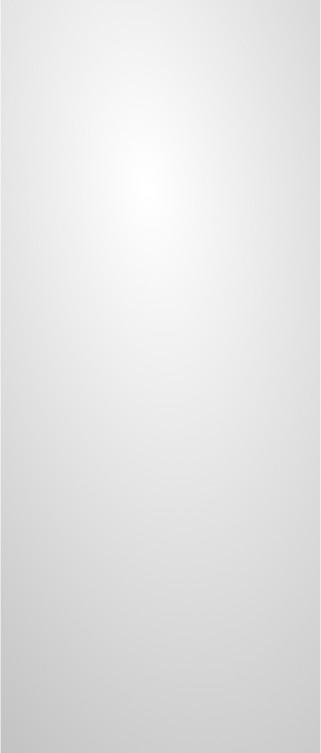
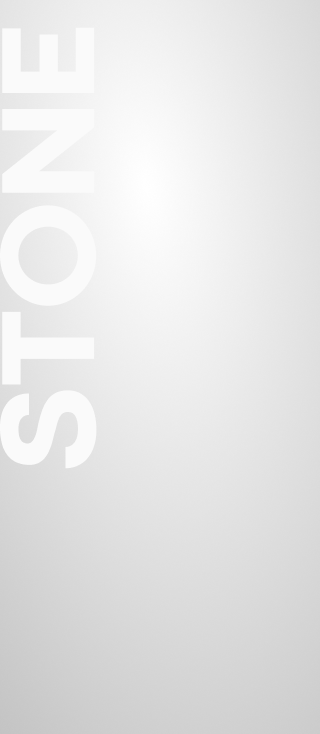
Добавляет верстку футера

Changed region(s): [[0.0, 0.4196, 0.1875, 0.6594], [0.1875, 0.5995, 0.2812, 0.6594]]

diff --git a/pages/news/index.js b/pages/news/index.js
@@ -67,12 +67,12 @@ export default function News() {
 
     const mocks = {
         header: {
-            name: 'Максим Гейзер в рейтинге CRE 100',
+            name: `Максим Гейзер в${'\u00A0'}рейтинге CRE 100`,
             description: '100 самых влиятельных персон рынка коммерческой недвижимости 2022/23',
             data: '20/04/2022'
         },
         video: {
-            url: 'https://www.youtube.com/embed/Onn38VeEAC8',
+            //url: 'https://www.youtube.com/embed/Onn38VeEAC8',
             description: 'Видео с вручения премии, которая, несомненно, внесла большой вклад.'
         },
         hashtagList: [
@@ -132,11 +132,22 @@ export default function News() {
             address: 'г. Москва, Бумажный проезд, вл. 19',
             sales: 'Отдел продаж по телефону:пн. - пт.: с 9:00 до 21:00сб. - вс.: c 9:30 до 20:00',
             telegram: '@stone_by_stonehedge'
-        }    
+        },
+        copyright: {
+            header: `Инвестируйте Выгодно В${'\u00A0'}ликвидную недвижимость`,
+            name: 'Политика конфиденциальности',
+            author: '© АО «СТОУНХЕДЖ»',
+            description: 'Содержимое данного сайта (включая размещенную информацию и материалы) охраняется авторским правом (ст. 1271 ГК РФ). Запрещено копирование дизайна настоящего сайта, его структуры и отдельных элементов без предварительного письменного согласия АО «СТОУНХЕД»'
+        },
+        form: {
+            header: 'Новости рынка и проектов',
+            ready: 'Готово!',
+            description: 'Одним из первых узнавайте о новостях рынка коммерческой недвижимости'       
+        }
     }
 
-    const {header, video, slider, author, image, contacts} = mocks;
-
+    const {header, video, slider, author, image, contacts, copyright, form} = mocks;
+    
     return (
             <Context.Provider value={[width, height]}>
                 <Head>
@@ -172,9 +183,9 @@ export default function News() {
                                 <S_Text text={mocks.textList[2].text}
                                 />
                                 <S_MoreInfoBtn />
-                                <S_Form />
+                                <S_Form header={form.header} description={form.description} ready={form.ready}/>
                                 <S_Footer phone_number={contacts.phone} mail={contacts.mail} address={contacts.address} 
-                                    sales_number={contacts.sales} telegram={contacts.telegram}/>
+                                    sales_number={contacts.sales} telegram={contacts.telegram} copyright={copyright}/>
                             </>
                         ) : (
                             <div className="lds-grid-wrapper">

diff --git a/src/components/c_Form/index.js b/src/components/c_Form/index.js
@@ -1,25 +1,40 @@
 import classNames from 'classnames';
 import classes from './style.module.scss';
 
-export const C_Form = ({}) => {
+export const C_Form = ({header, description, ready}) => {
   
   const cls = classNames(classes.root, {[classNames]: classNames});
-  
+
+  const formColor = {
+    valid: '#A2D3AA',
+    invalid: '#E0A8A8',
+    need: '#E5BF5B',
+    default: '#cccccc'
+  }
+
+  const validName = /^(([a-zA-Zа-яА-ЯЁё-]{1,30}))$/u;
+
+  const onInputCheck = (evt) => {
+    if (evt) {
+      (evt.target.value.length > 0) && (validName.test(evt.target.value)) ? evt.target.style.borderColor = formColor.valid 
+      : (evt.target.value.length > 0) && (!validName.test(evt.target.value)) ? evt.target.style.borderColor = formColor.invalid 
+      : evt.target.style.borderColor = formColor.default
+    }
+  }
+
   return (
-      <div className={classes.root}>
+      <div className={cls}>
         <form>
           <fieldset>
-            <legend>Новости рынка и проектов</legend>
-            <p>Одним из первых узнавайте о новостях рынка коммерческой недвижимости</p>
+            <legend>{header}</legend>
+            <p>{description}</p>
             <div className={classes.input__name_wrapper}>
-              <input placeholder="Как к вам обращаться" required />
-              <label>
-             </label>
+              <input placeholder="Как к вам обращаться" name="name" id="id-name" onInput={(evt) => onInputCheck(evt)}/>
+              <label htmlFor="id-name"/>
             </div>
             <div className={classes.input__mail_wrapper}>
-              <input type="email" placeholder='E-mail*'/>
-              <label>
-             </label>
+              <input type="email" placeholder='E-mail*' name="email" id="id-email" required/>
+              <label id="id-email" />
             </div>
             <button type="submit">
               <span >Хочу быть в курсе</span>

diff --git a/src/sections/s_Footer/index.js b/src/sections/s_Footer/index.js
@@ -1,15 +1,22 @@
 import classNames from 'classnames';
 import { C_FooterContacts } from '../../components/c_FooterContacts';
+import { C_Logo } from '../../components/c_Logo';
+import { C_LogoSH } from '../../components/c_LogoSH';
+import { C_Politics } from '../../components/c_Copyright';
 import classes from './style.module.scss';
 
-export const S_Footer = ({phone_number, mail, address, sales_number, telegram}) => {
+export const S_Footer = ({phone_number, mail, address, sales_number, telegram, copyright}) => {
   
   const cls = classNames(classes.root, {[classNames]: classNames});
 
   return (
       <div className={cls}>
+        <h2>{copyright.header}</h2>
         <C_FooterContacts phone_number={phone_number} mail={mail} address={address} 
           sales_number={sales_number} telegram={telegram}/>
+        <C_Logo className={classes.logo_footer}/>
+        <C_LogoSH />
+        <C_Politics copyright={copyright}/>
       </div>
   )
 }

diff --git a/src/components/c_Form/style.module.scss b/src/components/c_Form/style.module.scss
@@ -39,7 +39,8 @@
   line-height: 16px;
   border-radius: 16px;
   border: 1px solid #CCCCCC;
-  color: #CCCCCC;
+  color: #7B7B7B;
+  outline: none;
 
   &::placeholder {
     font-size: 12px;
@@ -65,7 +66,7 @@
   width: 10px;
   height: 10px;
 
-  background: url('../c_Form/fffff.png');
+  background: url('../c_Form/unchecked.png');
   background-repeat: no-repeat;
   
   cursor: pointer;
@@ -81,7 +82,7 @@
   height: 10px;
   border-radius: 4px;
 
-  background: url('../c_Form/gggg.png');
+  background: url('../c_Form/checked.png');
   background-repeat: no-repeat;
   cursor: pointer;
 }

diff --git a/src/components/c_Copyright/index.js b/src/components/c_Copyright/index.js
@@ -1,14 +1,15 @@
 import classNames from 'classnames';
-import { C_Form } from '../../components/c_Form';
 import classes from './style.module.scss';
 
-export const S_Form = ({header, description, ready}) => {
+export const C_Copyright = ({copyright}) => {
   
   const cls = classNames(classes.root, {[classNames]: classNames});
-  
+
   return (
       <div className={cls}>
-        <C_Form header={header} description={description} ready={ready}/>
+        <div>{copyright.name}</div>
+        <div>{copyright.author}</div>
+        <div>{copyright.description}</div>
       </div>
   )
 }

diff --git a/src/sections/s_Footer/style.module.scss b/src/sections/s_Footer/style.module.scss
@@ -1,5 +1,23 @@
 .root {
+  display: flex;
+  flex-direction: column;
   padding: 44px 36px 89px 20px;
   background-image: url('../s_Footer/bg.png');
   background-repeat: no-repeat;
+  background-size: 100% 100%;
+  background-position: center;
+}
+
+.root h2 {
+  order: 2;
+  margin: 0;
+  margin-top: 25px;
+  font-size: 28px;
+  line-height: 34px;
+  color: #343636;
+}
+
+.logo_footer {
+  margin-top: 156px;
+  order: 3;
 }

diff --git a/src/components/c_LogoSH/index.js b/src/components/c_LogoSH/index.js
@@ -1,0 +1,9 @@
+import classes from './style.module.scss';
+import classNames from "classnames";
+
+export const C_LogoSH = ({className}) => {
+    const cls = classNames(classes.root, {[className]: className });
+    return (
+        <a className={cls} href={"#"} rel="noreferrer" />
+    )
+}

diff --git a/src/components/c_LogoSH/style.module.scss b/src/components/c_LogoSH/style.module.scss
@@ -1,0 +1,12 @@
+.root {
+  cursor: pointer;
+  display: block;
+  width: 134px;
+  height: 22px;
+  margin-top: 24px;
+  background-image: url("../c_LogoSH/logoSH.svg");
+  background-repeat: no-repeat;
+  background-position: center;
+  background-size: 134px 22px;
+  order: 3;
+}

diff --git a/src/components/c_Address/style.module.scss b/src/components/c_Address/style.module.scss
@@ -1,6 +1,6 @@
 .root {
   margin: 0 auto;
-  margin-top: 16px;
+  margin-top: 22px;
   font-size: 12px;
   line-height: 15px;
   color: #343636;
@@ -12,5 +12,5 @@
 }
 
 .root p:nth-child(2) {
-  margin-top: 10px;
+  margin-top: 13px;
 }

diff --git a/src/components/c_Copyright/style.module.scss b/src/components/c_Copyright/style.module.scss
@@ -1,0 +1,15 @@
+.root {
+  margin-top: 22px;
+  order: 4;
+}
+
+.root div {
+  width: 100%;
+  font-size: 10px;
+  line-height: 12px;
+  color: #343636;
+}
+
+.root div:nth-child(n + 2) {
+  margin-top: 11px;
+}

diff --git a/src/components/c_Text/index.js b/src/components/c_Text/index.js
@@ -7,7 +7,7 @@ export const C_Text = ({text}) => {
 
   return (
     <div className={cls}>
-      <p>{text}</p>
+      <p dangerouslySetInnerHTML={{ __html: text}}></p>
     </div>
   )
 }

diff --git a/src/components/c_header/style.module.scss b/src/components/c_header/style.module.scss
@@ -2,7 +2,7 @@
   margin: 0;
   padding: 0;
   font-size: 27px;
-  line-height: 36px;
-  letter-spacing: -0.1em;
+  //line-height: 36px;
+  letter-spacing: -0.3px;
   color: #2c2d2d;
 }
